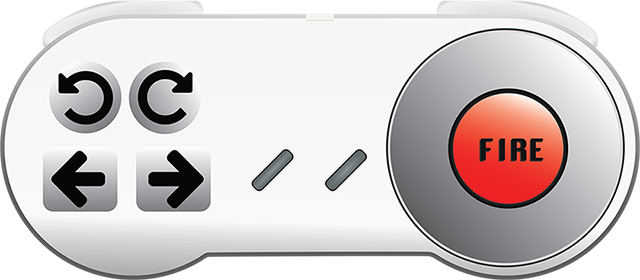
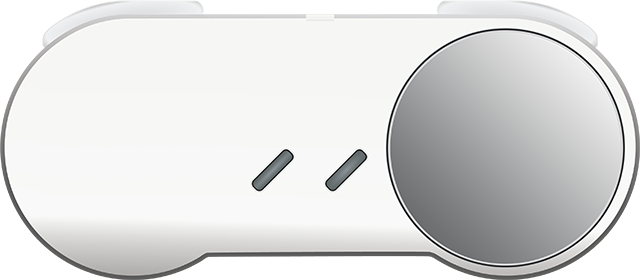
Added 5 controllers

diff --git a/client/public/game.html b/client/public/game.html
@@ -9,7 +9,8 @@
 <body>
 
     <div id="game"></div>
-    <br><div id="test"></div>
+    <br>
+    <div id="test"></div>
 
     <script src="https://www.gstatic.com/firebasejs/5.9.3/firebase.js"></script>
     <script src="https://code.jquery.com/jquery-3.3.1.min.js"
@@ -45,13 +46,21 @@
                 userInput = snapshot.val().direction;
             };
 
-            output.html("Angle : " + userAngle);
-            // output.append("<br>beta : " + userPower);
+            output.html("Player : " + (snapshot.val().gameState + 1));
+            output.append("<br>Angle : " + userAngle);
             output.append("<br>Camera : " + userInput);
+            output.append("<br>Fire : " + userPower);
 
             // Handle the errors
         }, function (errorObject) {
             console.log("Errors handled: " + errorObject.code);
+        });
+
+        database.ref().set({
+            gameState: 0,
+            angle: 0,
+            power: 0,
+            direction: 0
         });
 
         var game = new Phaser.Game(960, 480, Phaser.CANVAS, 'game');
@@ -269,6 +278,13 @@
                 if (this.gameState == this.tankX.length) {
                     this.gameState = 0;
                 };
+
+                database.ref().set({
+                    gameState: this.gameState,
+                    angle: 0,
+                    power: 0,
+                    direction: 0
+                });
             },
 
             /**
@@ -364,10 +380,12 @@
                     }
 
                     // run fire function when spacebar is let go
-                    this.fireButton.onUp.add(this.fire, this);
+                    if (userPower === 0 && this.fireButton.isUp && this.power != 0) {
+                        this.fire();
+                    };
 
                     // charge up power when space bar is held down
-                    if (this.fireButton.isDown) {
+                    if (userPower === 1 || this.fireButton.isDown) {
                         // reset the camera position
                         this.camera.follow(this.tank[this.gameState]);
 

diff --git a/client/public/controller/style.css b/client/public/controller/style.css
@@ -1,0 +1,59 @@
+html {
+  -webkit-touch-callout: none;
+  -webkit-user-select: none;
+  -khtml-user-select: none;
+  -moz-user-select: none;
+  -ms-user-select: none;
+  user-select: none;
+  -webkit-tap-highlight-color: rgba(0, 0, 0, 0);
+  background-color: orange;
+}
+
+.controller {
+  background-image: url("../assets/image/controller.png");
+  width: 640px;
+  height: 280px;
+}
+
+#angleLeft {
+top: 45px;
+left: -65px;
+position: relative;
+}
+
+#angleRight {
+top: 45px;
+left: -35px;
+position: relative;
+}
+
+#cameraLeft {
+top: 123px;
+left: -205px;
+position: relative;
+}
+
+#cameraRight {
+top: 123px;
+left: -185px;
+position: relative;
+}
+
+#fireButton {
+width: 110px;
+height: 110px;
+top: 92px;
+left: 43px;
+position: relative;
+}
+
+#output {
+top: -50px;
+position: relative;
+}
+
+@media screen and (orientation: portrait) {
+  html {
+    transform: rotate(90deg);
+  }
+}

diff --git a/client/public/controller/5.html b/client/public/controller/5.html
@@ -60,7 +60,7 @@
             var userInput = 0;
             var userPower = 0;
 
-            var userNo = 1;
+            var userNo = 5;
 
             // Firebase watcher + initial loader
             database.ref().on("value", function (snapshot) {
@@ -147,7 +147,7 @@
                 })
                 .mouseup(function () {
                     userPower = 0;
-                    gameState = userNo;
+                    gameState = 0;
                     database.ref().set({
                         gameState: gameState,
                         angle: userAngle,

diff --git a/client/public/controller/2.html b/client/public/controller/2.html
@@ -60,7 +60,7 @@
             var userInput = 0;
             var userPower = 0;
 
-            var userNo = 1;
+            var userNo = 2;
 
             // Firebase watcher + initial loader
             database.ref().on("value", function (snapshot) {

diff --git a/client/public/controller/3.html b/client/public/controller/3.html
@@ -60,7 +60,7 @@
             var userInput = 0;
             var userPower = 0;
 
-            var userNo = 1;
+            var userNo = 3;
 
             // Firebase watcher + initial loader
             database.ref().on("value", function (snapshot) {

diff --git a/client/public/controller/4.html b/client/public/controller/4.html
@@ -60,7 +60,7 @@
             var userInput = 0;
             var userPower = 0;
 
-            var userNo = 1;
+            var userNo = 4;
 
             // Firebase watcher + initial loader
             database.ref().on("value", function (snapshot) {
